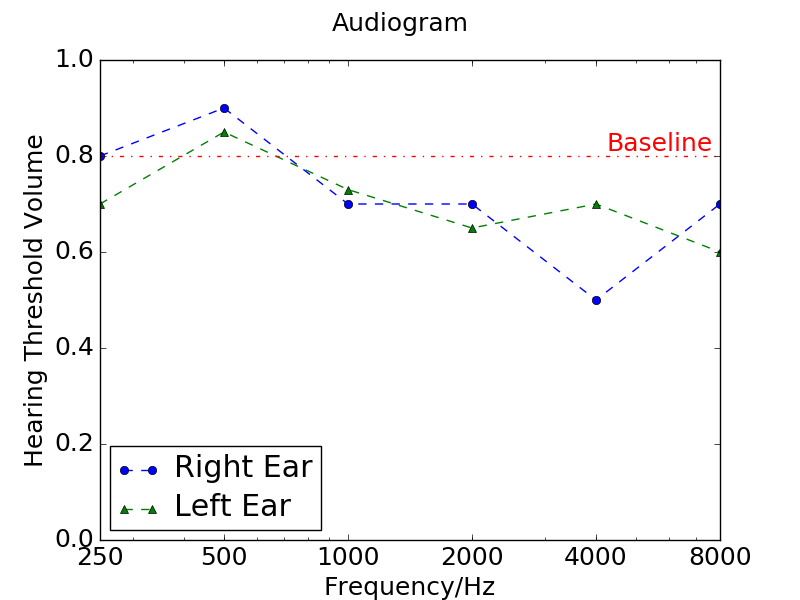
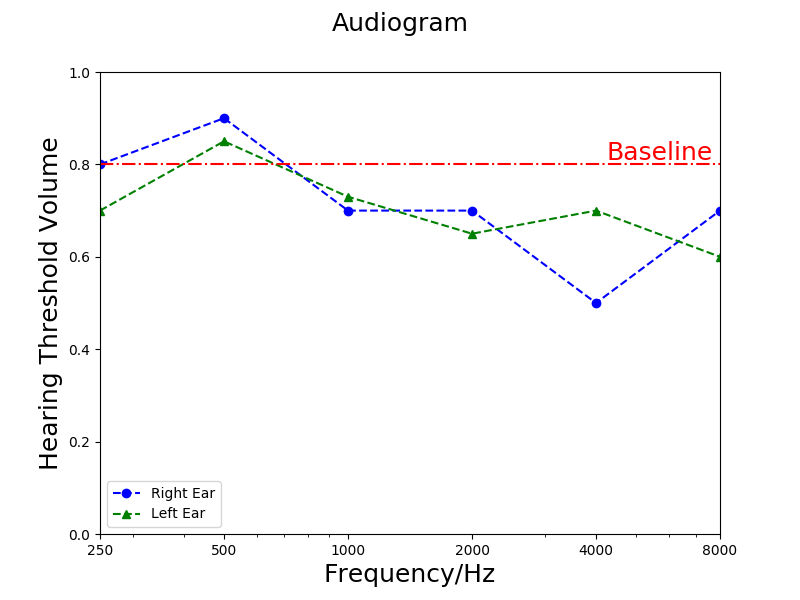
audiogram displays in GUI

diff --git a/gui.py b/gui.py
@@ -6,6 +6,7 @@ except ImportError:
 
 import hearing_test_demo as htd
 import plotdata as pd
+import audiogram as ad
 # import image_processing_funcs as ipf
 # import camera as cam 						#UNCOMMENT
 # import bulging_shah
@@ -25,6 +26,7 @@ class Panel:
 
 		x = tk.Label(master, text="Welcome to our GUI.", font=("Helvetica", 20))
 		x.pack()
+
 		self.quit = tk.Button(master, text="QUIT", font=("Helvetica", 15), highlightbackground='#252526', command=master.quit)
 		self.quit.pack(pady=8, padx=15)
 
@@ -143,7 +145,7 @@ class Panel:
 
 	def print_audiogram(self):
 		print("Displaying audiogram.")
-		# TODO call
+		ad.audiogram()
 		return
 
 	def print_label_as(self, str):

diff --git a/audiogram.py b/audiogram.py
@@ -1,6 +1,7 @@
 import numpy as np
-import matplotlib.pyplot as plt
 import matplotlib
+matplotlib.use("TkAgg")
+from matplotlib import pyplot as plt
 
 def audiogram():
 	x = [250.0,500.0,1000.0,2000.0,4000.0,8000.0];
@@ -27,7 +28,7 @@ def audiogram():
 	matplotlib.rcParams.update({'font.size': 18})
 	plt.show()
 
-	fig.savefig('audiogram.png')
+	#fig.savefig('audiogram.png')
 
 if __name__ == "__main__":
 	audiogram()
